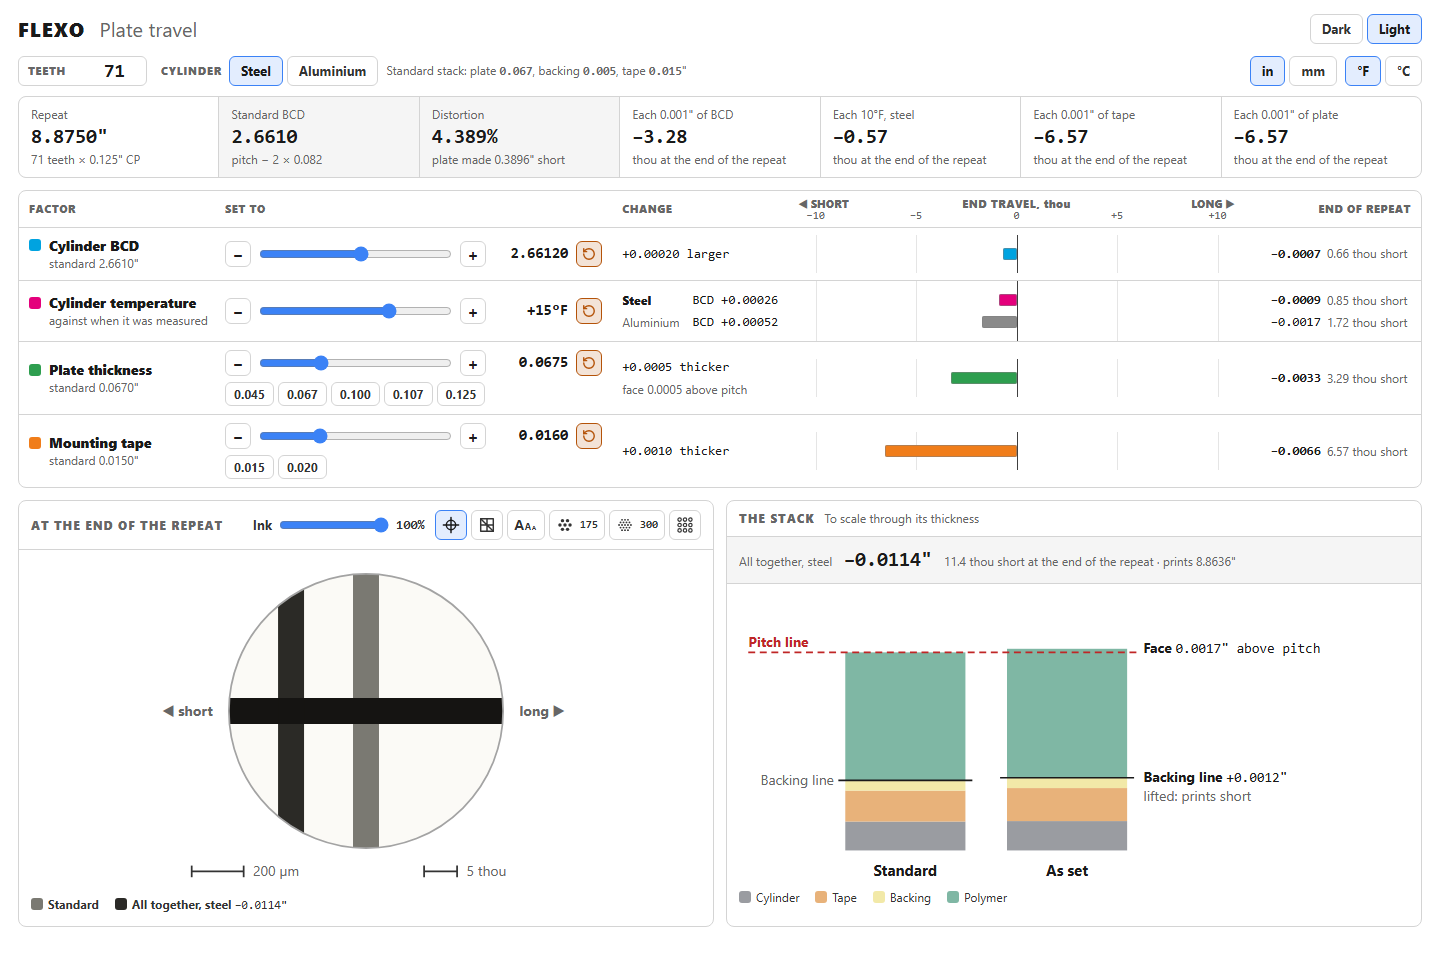
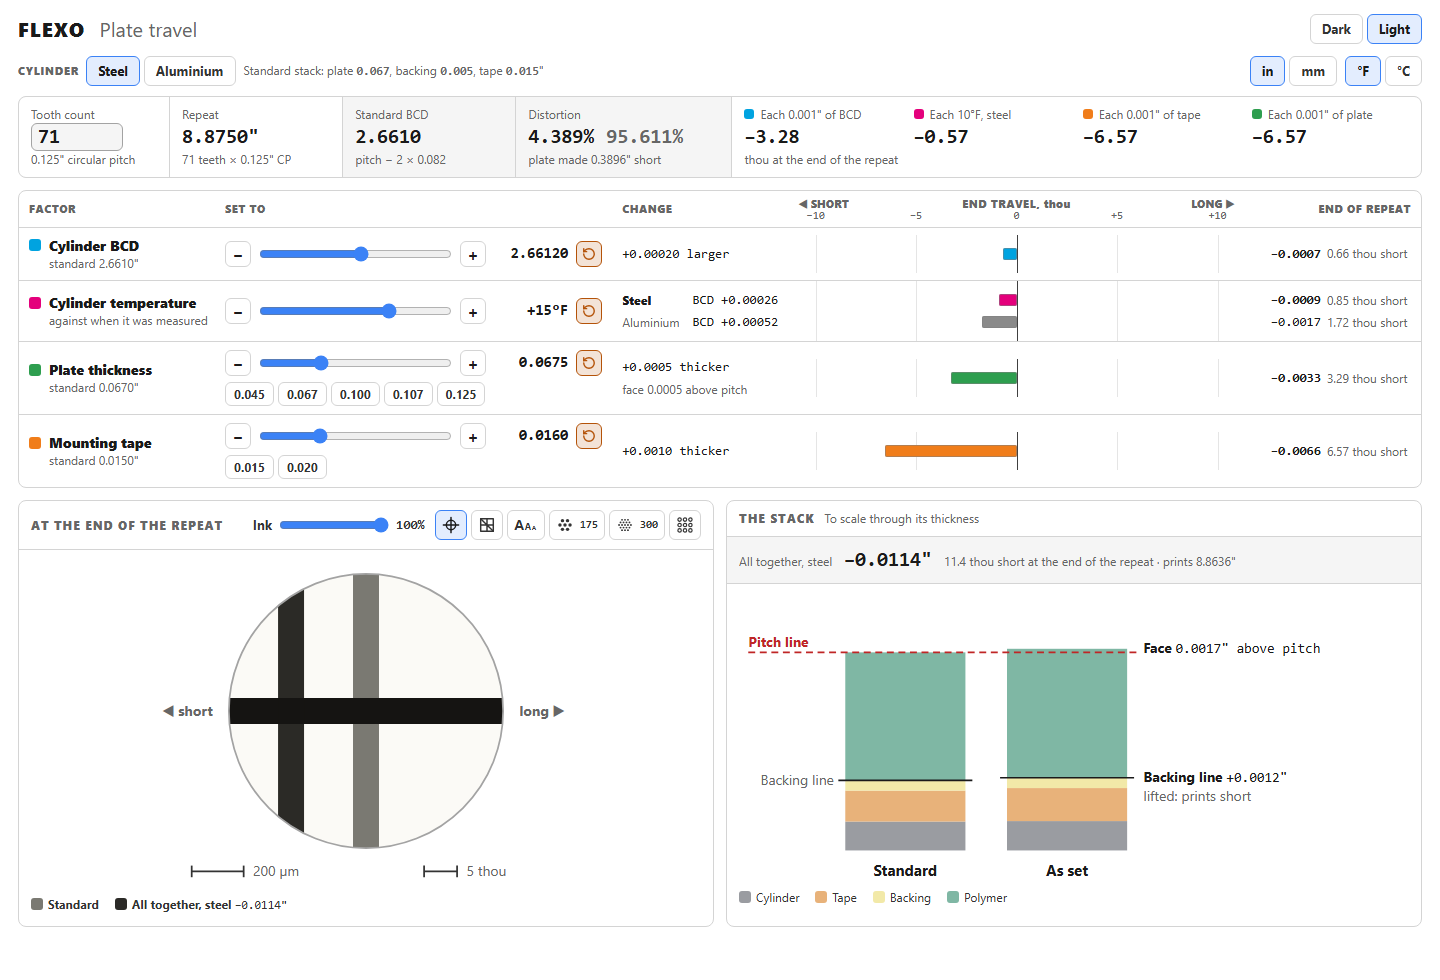
Rearrange the top row: tooth count in its own box, four factors in one
The tooth count leaves the bar for a box at the head of the row, followed
by the repeat, the standard BCD and the distortion. The distortion now
shows both sides: how much shorter the plate is made, and what is left of
the repeat. What one step of BCD, temperature, tape and plate is worth is
one box of four figures in the sliders' colours.

The demo's screenshot and six slides are reshot, and its first stop points
at the new boxes.

Changed region(s): [[0.0, 0.0306, 0.6875, 0.1837], [0.8438, 0.0918, 0.9688, 0.1837], [0.7188, 0.0918, 0.8125, 0.1837]]

diff --git a/FLEXO_PLATE_DRIFT.html b/FLEXO_PLATE_DRIFT.html
@@ -36,8 +36,6 @@
   .head h1 span { margin-left: 8px; font-weight: 400; letter-spacing: 0; color: var(--mu); }
 
   .bar { display: flex; align-items: center; gap: 8px; flex-wrap: wrap; margin-bottom: 10px; }
-  .lsel { display: inline-flex; align-items: center; gap: 6px; height: 30px; padding: 0 4px 0 9px; border: 1px solid var(--hair); border-radius: 6px; font-size: 11px; font-weight: 800; letter-spacing: .6px; text-transform: uppercase; color: var(--mu); }
-  .lsel input { width: 70px; border: 0; background: var(--bg); color: var(--tx); font-family: Consolas, monospace; font-size: 19px; font-weight: 800; height: 26px; text-align: right; }
   .pills { display: inline-flex; gap: 4px; flex-wrap: wrap; }
   .pill { display: inline-flex; align-items: center; justify-content: center; gap: 5px; height: 30px; padding: 0 11px; border-radius: 6px; font-size: 13px; font-weight: 700; cursor: pointer; border: 1px solid var(--hair); background: transparent; color: var(--tx2); white-space: nowrap; }
   .pill.on { border-color: var(--pri); background: var(--on); color: var(--tx); }
@@ -49,13 +47,21 @@
   .ink input { width: 110px; margin: 0; accent-color: var(--pri); }
   .cap { display: inline-flex; align-items: center; gap: 7px; font-size: 11px; font-weight: 800; letter-spacing: .8px; text-transform: uppercase; color: var(--mu); }
 
-  .facts { display: grid; grid-template-columns: repeat(7, minmax(0,1fr)); gap: 1px; background: var(--hair); border: 1px solid var(--hair); border-radius: 8px; margin-bottom: 12px; overflow: hidden; }
+  /* the top row: the tooth count in its own box, then the repeat, the standard BCD,
+     the distortion both ways, and the four factors together in one box */
+  .facts { display: grid; grid-template-columns: 150px minmax(140px, 1fr) minmax(140px, 1fr) minmax(200px, 1.25fr) minmax(620px, 4fr); gap: 1px; background: var(--hair); border: 1px solid var(--hair); border-radius: 8px; margin-bottom: 12px; overflow: hidden; }
+  #facts-rest { display: contents; }
   .fact { padding: 9px 12px; min-width: 0; background: var(--bg); }
   .fact.key { background: var(--bg2); }
-  .fact .k { font-size: 12px; color: var(--mu); white-space: nowrap; }
+  .fact .k { display: block; font-size: 12px; color: var(--mu); white-space: nowrap; overflow: hidden; text-overflow: ellipsis; }
   .fact .v { font-size: 20px; font-weight: 800; font-family: Consolas, monospace; white-space: nowrap; }
+  .fact .v .hi { margin-left: 12px; color: var(--mu); }
   .fact .s { font-size: 12px; color: var(--mu); white-space: nowrap; overflow: hidden; text-overflow: ellipsis; }
-  @media (max-width: 1250px) { .facts { grid-template-columns: repeat(4, minmax(0,1fr)); } }
+  .fact.teeth input { display: block; width: 92px; height: 28px; padding: 0 6px; border: 1px solid var(--hair2); border-radius: 6px; background: var(--bg2); color: var(--tx); font-family: Consolas, monospace; font-size: 20px; font-weight: 800; }
+  .fact.four .each { display: grid; grid-template-columns: repeat(4, minmax(0, 1fr)); gap: 0 12px; }
+  .fact.four .k i { display: inline-block; width: 10px; height: 10px; border-radius: 3px; margin-right: 6px; }
+  @media (max-width: 1320px) { .facts { grid-template-columns: repeat(4, minmax(0,1fr)); } .fact.four { grid-column: 1 / -1; } }
+  @media (max-width: 700px) { .facts { grid-template-columns: repeat(2, minmax(0,1fr)); } .fact.four .each { grid-template-columns: repeat(2, minmax(0, 1fr)); gap: 6px 16px; } }
 
   .panel { border: 1px solid var(--hair); border-radius: 8px; min-width: 0; margin-bottom: 12px; }
   .phead { display: flex; align-items: center; gap: 10px; flex-wrap: wrap; padding: 9px 12px; border-bottom: 1px solid var(--hair); }
@@ -115,15 +121,18 @@
   <div class="head"><h1>FLEXO <span>Plate travel</span></h1><span class="sp"></span><span class="pills" id="themes"></span></div>
 
   <div class="bar">
-    <label class="lsel">Teeth <input type="number" id="teeth" min="20" max="250" step="1" aria-label="Tooth count"></label>
-    <span class="cap" style="margin-left:6px">Cylinder <span class="pills" id="metal"></span></span>
+    <span class="cap">Cylinder <span class="pills" id="metal"></span></span>
     <span class="muted" id="stackline"></span>
     <span class="sp"></span>
     <span class="pills" id="lens"></span>
     <span class="pills" id="temps"></span>
   </div>
 
-  <div class="facts" id="facts"></div>
+  <!-- The tooth count box is fixed markup, so typing in it is never redrawn; the rest of the row is drawn by update(). -->
+  <div class="facts">
+    <div class="fact teeth"><label class="k" for="teeth">Tooth count</label><input type="number" id="teeth" min="20" max="250" step="1"><div class="s" id="pitch"></div></div>
+    <div id="facts-rest"></div>
+  </div>
 
   <section class="panel">
     <div class="scroll"><div class="rows">
@@ -370,16 +379,21 @@ const update = () => {
   // facts
   const perRad = Math.abs(printed(g, { tape: STACK.tape + 0.0005 }) - printed(g, { tape: STACK.tape - 0.0005 }));
   const unitT = state.temp === 'C' ? 5 : 10, unitF = state.temp === 'C' ? 9 : 10;
-  const facts = [
-    ['Repeat', `${fLen(R)}${mark()}`, `${g.teeth} teeth × ${mm() ? fLen(STACK.cp) : STACK.cp}${mark()} CP`, false],
-    ['Standard BCD', fLen(g.std), `pitch − 2 × ${fLen(STACK.plate + STACK.tape, 3)}`, true],
-    ['Distortion', `${(g.dist * 100).toFixed(3)}%`, `plate made ${fLen(g.K)}${mark()} short`, true],
-    [mm() ? 'Each 0.01 mm of BCD' : 'Each 0.001" of BCD', fFine(tr({ dBcd: mm() ? 0.01 / 25.4 : 0.001 })), `${fineName()} at the end of the repeat`, false],
-    [`Each ${unitT}°${state.temp}, ${METAL[state.metal].toLowerCase()}`, fFine(tr({ dF: unitF, metal: state.metal })), `${fineName()} at the end of the repeat`, false],
-    [mm() ? 'Each 0.01 mm of tape' : 'Each 0.001" of tape', fFine(-perRad * (mm() ? 0.01 / 25.4 / 0.001 : 1)), `${fineName()} at the end of the repeat`, false],
-    [mm() ? 'Each 0.01 mm of plate' : 'Each 0.001" of plate', fFine(tr({ plate: STACK.plate + (mm() ? 0.01 / 25.4 : 0.001) })), `${fineName()} at the end of the repeat`, false],
+  const cp = `${mm() ? fLen(STACK.cp) : STACK.cp}${mark()}`, pct = g.dist * 100;
+  const tile = (k, v, sub, key = false) => `<div class="fact${key ? ' key' : ''}"><div class="k">${k}</div><div class="v">${v}</div><div class="s">${sub}</div></div>`;
+  // The four factors, each by one step, in one box: what that step does at the end of the repeat.
+  const each = [
+    ['var(--f-bcd)', mm() ? 'Each 0.01 mm of BCD' : 'Each 0.001" of BCD', fFine(tr({ dBcd: mm() ? 0.01 / 25.4 : 0.001 }))],
+    ['var(--f-temp)', `Each ${unitT}°${state.temp}, ${METAL[state.metal].toLowerCase()}`, fFine(tr({ dF: unitF, metal: state.metal }))],
+    ['var(--f-tape)', mm() ? 'Each 0.01 mm of tape' : 'Each 0.001" of tape', fFine(-perRad * (mm() ? 0.01 / 25.4 / 0.001 : 1))],
+    ['var(--f-plate)', mm() ? 'Each 0.01 mm of plate' : 'Each 0.001" of plate', fFine(tr({ plate: STACK.plate + (mm() ? 0.01 / 25.4 : 0.001) }))],
   ];
-  $('facts').innerHTML = facts.map(([k, v, sub, key]) => `<div class="fact${key ? ' key' : ''}"><div class="k">${k}</div><div class="v">${v}</div><div class="s">${sub}</div></div>`).join('');
+  $('pitch').textContent = `${cp} circular pitch`;
+  $('facts-rest').innerHTML = tile('Repeat', `${fLen(R)}${mark()}`, `${g.teeth} teeth × ${cp} CP`)
+    + tile('Standard BCD', fLen(g.std), `pitch − 2 × ${fLen(STACK.plate + STACK.tape, 3)}`, true)
+    // the distortion both ways: how much shorter the plate is made, and what is left of the repeat
+    + tile('Distortion', `<span title="How much shorter the plate is made">${pct.toFixed(3)}%</span><span class="hi" title="The plate's length as a share of the repeat">${(100 - pct).toFixed(3)}%</span>`, `plate made ${fLen(g.K)}${mark()} short`, true)
+    + `<div class="fact four"><div class="each">${each.map(([ink, k, v]) => `<div><div class="k"><i style="background:${ink}"></i>${k}</div><div class="v">${v}</div></div>`).join('')}</div><div class="s">${fineName()} at the end of the repeat</div></div>`;
 
   // the shared travel scale: every bar on one axis
   const steps = mm() ? [10, 20, 50, 100, 200, 500, 1000, 2000, 5000, 10000] : [0.5, 1, 2, 5, 10, 20, 50, 100, 200, 500];

diff --git a/FLEXO_PLATE_DRIFT_DEMO.html b/FLEXO_PLATE_DRIFT_DEMO.html
@@ -78,10 +78,10 @@ const STEPS = [
     name: 'The standard',
     lit: [[12, 48, 1416, 136]],
     notes: [
-      { x: 30, y: 216, w: 252, h: 'Tooth count', p: 'Type the gear’s tooth count. Teeth × pitch is the repeat: 71 × 0.125" = <b>8.875"</b>.', from: [198, 216], to: [[148, 90]] },
-      { x: 300, y: 216, w: 282, h: 'Cylinder type', p: 'Steel or aluminium. It decides how much the cylinder grows with heat.', to: [[372, 90]] },
-      { x: 600, y: 216, w: 342, h: 'The standard', p: 'The standard plate, backing and tape give the <b>Standard BCD</b>: the bare cylinder diameter that prints the repeat exactly.', to: [[609, 84]] },
-      { x: 960, y: 216, w: 440, h: 'What one step is worth', p: 'Each tile is one small change of one factor, in thousandths of an inch at the end of the repeat. <b>Minus prints short.</b>', to: [[1020, 182]] },
+      { x: 30, y: 216, w: 252, h: 'Tooth count', p: 'Type the gear’s tooth count in its box. Teeth × pitch is the repeat: 71 × 0.125" = <b>8.875"</b>.', to: [[140, 170]] },
+      { x: 300, y: 216, w: 270, h: 'Cylinder type', p: 'Steel or aluminium. It decides how much the cylinder grows with heat.', from: [372, 216], to: [[232, 88]] },
+      { x: 610, y: 216, w: 336, h: 'The standard', p: 'The standard plate, backing and tape give the <b>Standard BCD</b>: the bare cylinder that prints the repeat exactly. <b>Distortion</b> is how much shorter the plate is made: 4.389% off, so 95.611% of the repeat.', to: [[452, 140], [702, 140]] },
+      { x: 964, y: 216, w: 440, h: 'What one step is worth', p: 'One box, four figures: one small change of each factor, in thousandths of an inch at the end of the repeat, in the sliders’ colours. <b>Minus prints short.</b>', to: [[1040, 170]] },
     ],
   },
   {

diff --git a/README.md b/README.md
@@ -18,6 +18,8 @@ Type a tooth count, pick steel or aluminium, and move four sliders:
 | Plate thickness | The plate on the cylinder |
 | Mounting tape | The tape under the plate |
 
+The top row has the tooth count in a box of its own, then the repeat, the standard BCD, the distortion (how much shorter the plate is made, and what is left of the repeat), and one box for what a small step of each of the four factors is worth.
+
 Each row shows the change, a bar on one shared short / long scale, and the travel at the end of the repeat in inches and thousandths (or millimetres and micrometres). Each slider has its own reset button. Below the rows:
 
 - **At the end of the repeat:** a magnified view with the standard in grey and the four changes together in black, in six test patterns. On the two rosettes the view splits: standard on the left, as set on the right.
